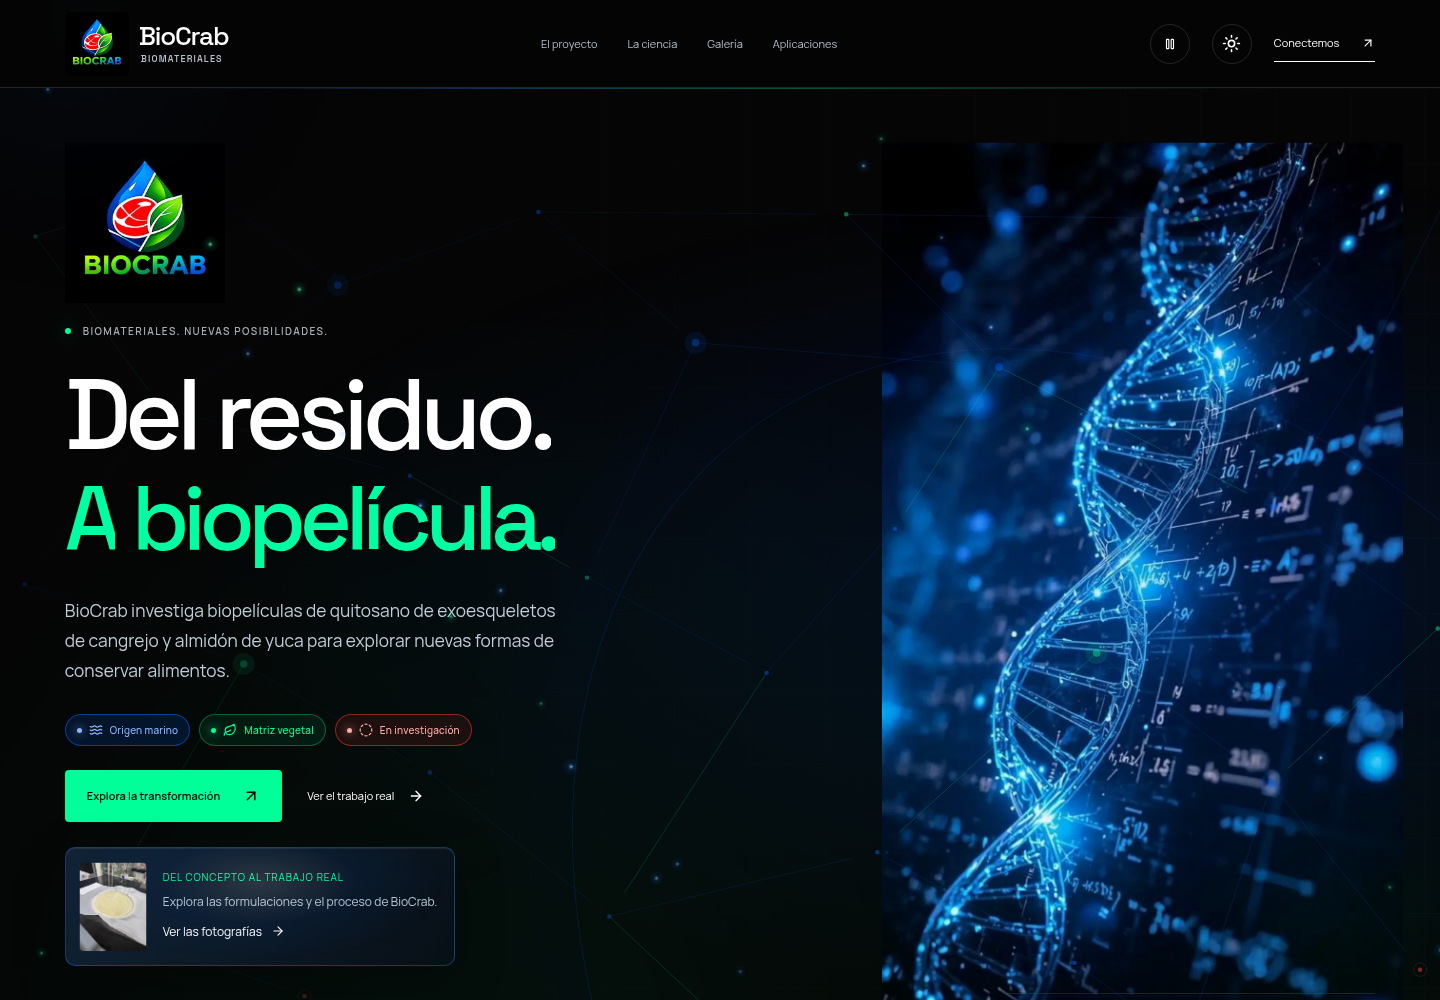
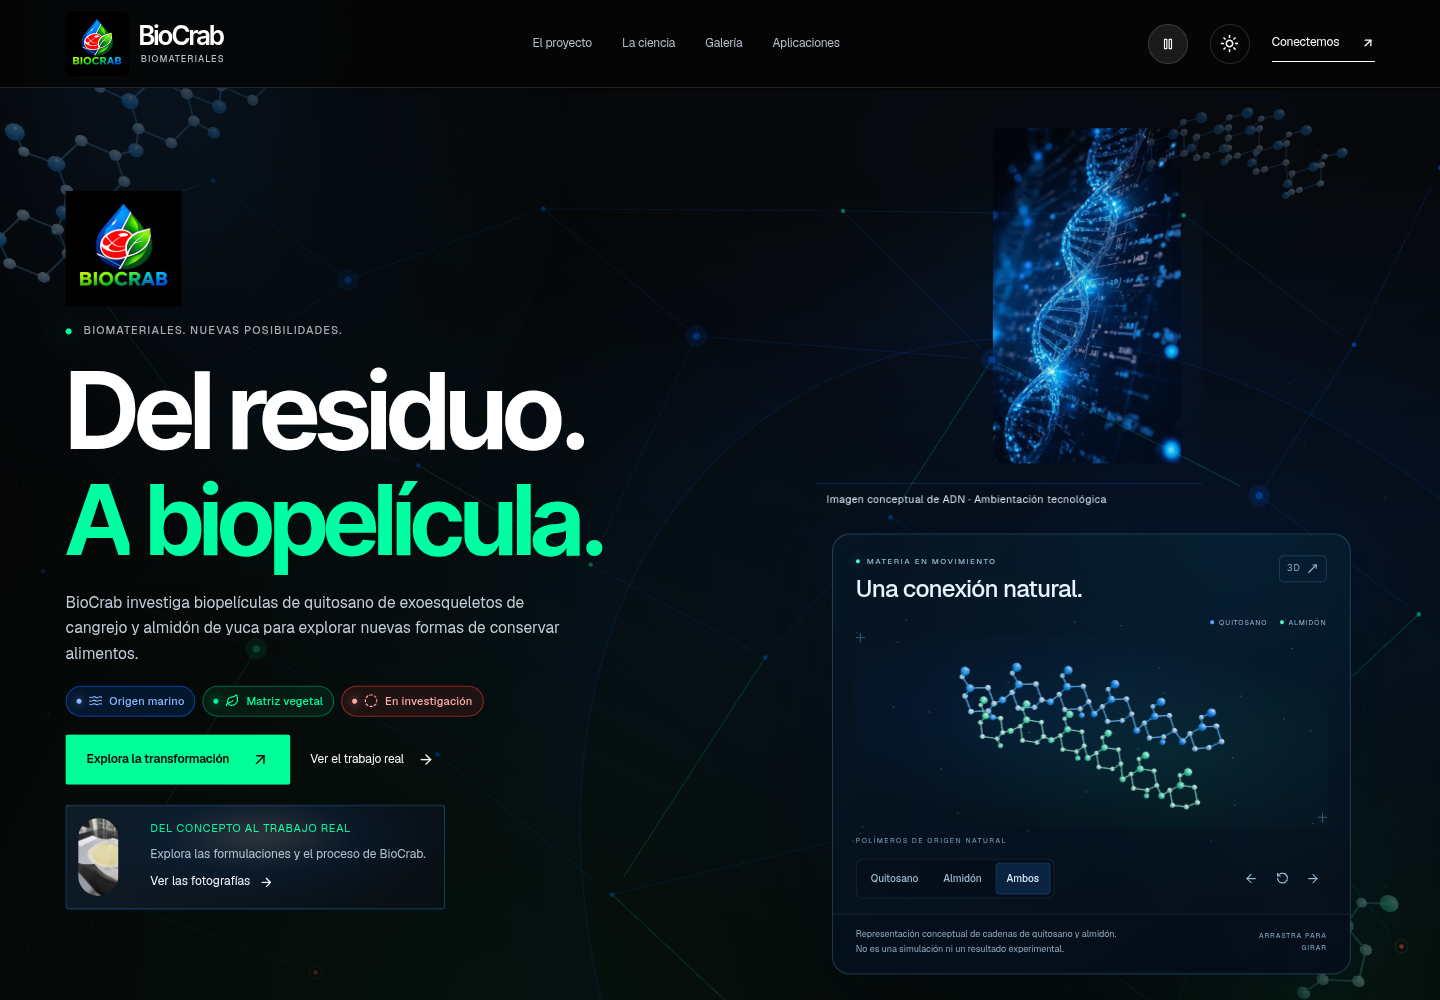
docs: verify molecular production release and preserve visual evidence

diff --git a/docs/visual-review.md b/docs/visual-review.md
@@ -1,70 +1,37 @@
 # Revisión visual de BioCrab
 
-## Alcance de la revisión actual
+La revisión molecular `molecular-research-v6` preserva las dieciséis secciones y su orden, el contenido científico y los archivos originales de fotografías y referencias. Solo se añadió una figura conceptual interactiva dentro del hero.
 
-La revisión identificada por `X-BioCrab-Design: cinematic-biotech-v5` incorpora las cinco imágenes exactas del nuevo ZIP y el logo adaptado con autorización del responsable. Las seis fotografías originales del proyecto permanecen en su colección independiente y no se sustituyen por referencias conceptuales.
+## Resultado visual
 
-## Elementos comprobados
+- Inter Tight y Geist locales, titulares grandes y espaciado más compacto.
+- Fondo molecular Three.js/React Three Fiber y explorador con modos, giro y teclado.
+- Dieciséis perfiles de animación, capas con profundidad, máscaras de fotografía y transiciones entre capítulos.
+- Fotografías completas, luz radial y marca BioCrab preservada. La etiqueta de ADN permanece asociada a su imagen y separada del esquema de polímeros.
+- Modelos explícitamente conceptuales: sin resultados ni datos experimentales inventados.
 
-- Logo PNG adaptado en navbar, hero, estado de carga y footer; favicon PNG generado desde el emblema.
-- Hero con el ADN azul conceptual, sus etiquetas de ambientación y el acceso a la fotografía real de la biopelícula.
-- Conexiones digitales en innovación; laboratorio conceptual en investigación/metodología; hoja y contacto digital en visión futura e impacto.
-- Imagen completa A-SPACE identificada como referencia de diseño. Sus cifras no son resultados de BioCrab ni implican afiliación.
-- Galería de seis fotografías originales y galería separada de cinco referencias, con imágenes completas, pies y ampliación opcional.
-- Hipótesis y validaciones pendientes sin porcentajes, ensayos completados, resultados ni afiliaciones inventadas.
-- Contadores de estructura (dos biopolímeros propuestos, cinco etapas y seis fotos), sin presentarlos como métricas de desempeño.
-- Movimiento, pausa persistente, cambios de preferencia de movimiento reducido y navegación por teclado.
+## Verificación
 
-## Validación local de esta revisión
+Compilación, TypeScript y diff-check completados. Chromium decodificó las treinta y siete apariciones de imágenes por vista. Anchos 320, 390, 768, 1024 y 1440 px sin desbordamiento.
 
-La compilación actual se comprobó localmente en Chromium contra los servidores de los puertos 3021, 3023 y 3024:
+Once ampliaciones de galería, cinco etapas metodológicas, cinco pasos del recorrido, timeline con teclado, ocho estados del comparador, menú móvil y copia del formulario comprobados. Se conservan pausa persistente, movimiento reducido y respaldo sin WebGL.
 
-- `npm run build` y `npm run typecheck`: completados correctamente.
-- Dieciséis secciones revisadas, con cinco referencias conceptuales en doce ubicaciones y las seis fotografías originales del proyecto.
-- Once ampliaciones interactivas verificadas: seis fotos del proyecto y cinco referencias.
-- Anchos 320, 390, 768, 1024 y 1440 px: sin desbordamiento horizontal.
-- Navegación, metodología, timeline, comparador y cambio de tema: comprobados.
-- Movimiento del hero, partículas, ambientación de ADN y profundidad de cursor: observado en el navegador, no solo por presencia de código.
-- Axe, reglas WCAG 2 A/AA y 2.1 AA: cero infracciones automáticas en temas oscuro y claro. Se utilizó movimiento reducido para evitar lecturas de contraste durante transiciones; quedaron dos reglas con comprobaciones incompletas. Esto no constituye una certificación integral de accesibilidad.
+El 3D se probó con WebGL real, WebGL deshabilitado y pérdida deliberada de contexto. El fallo del explorador queda aislado y no rompe la página. La carga del renderer es dinámica, con DPR limitado y bucles detenidos fuera de pantalla.
 
-El sistema cinematográfico incorpora GSAP/ScrollTrigger, Lenis, máscaras por palabras, zoom fotográfico sin recortes, partículas DOM y fuentes locales Manrope/Space Grotesk. Ver [movimiento y rendimiento](cinematic-experience.md).
+Axe WCAG A/AA y 2.1 AA en oscuro/claro y escritorio/móvil: cero infracciones automáticas con movimiento reducido. Dos comprobaciones incompletas por caso; esto no constituye certificación integral.
 
-La regresión del hero se verificó en dos corridas: pausa y movimiento reducido durante la entrada dejan ambas líneas visibles, sin desplazamiento ni desenfoque; reactivar el movimiento también termina correctamente, sin errores JavaScript.
+## Producción
 
-Estos resultados corresponden a la ejecución local de la revisión actual. No demuestran por sí solos que la misma compilación esté activa en Vercel. La integración de recursos se detalla en [integración de referencias](reference-integration.md).
-
-## Producción verificada
-
-URL: <https://biocrab-website.vercel.app/>. Enlace profundo: <https://biocrab-website.vercel.app/#hipotesis>.
-
-El 5 de noviembre de 2026, después del push del commit `f3ec62e94ee96091c927f860b70483a5f7cb085f`, Vercel confirmó el despliegue. Se verificó HTTP 200 y `X-BioCrab-Design: cinematic-biotech-v5` en el dominio público.
-
-Chromium comprobó 1440 × 1000 y 390 × 844 px:
-
-- Dieciséis escenas y treinta y seis títulos; doce estados distintos observados en partículas y zoom en cada vista. Lenis/GSAP en escritorio y scroll nativo/GSAP en móvil.
-- 37 imágenes decodificadas por vista, con cinco referencias únicas, seis fotos originales y tres apariciones del logo.
-- Imágenes completas mediante `object-fit: contain`; sin placeholders visibles ni desbordamiento horizontal.
-- Cero errores JavaScript o recursos HTTP fallidos durante el recorrido.
-- Favicon PNG válido, HTTP 200.
-- `#hipotesis` abre el contenido y lo deja visible, en ambas dimensiones.
-- Logo, título, CTA y ADN presentes desde la primera pantalla móvil.
-
-También se descargaron los cinco PNG y el logo desde sus rutas públicas: respuestas correctas y bytes idénticos al repositorio. Los cinco PNG originales coinciden con las fuentes del ZIP.
-
-El [informe de producción](production-verification.json) conserva fecha, URL, recursos únicos y resultados por viewport. La inspección visual revisó las capturas del hero, innovación, investigación, metodología, resultados, impacto y galería. Las referencias conceptuales aparecen con su contexto y no se presentan como evidencia experimental.
-
-## Capturas de producción
-
-Estas imágenes proceden del dominio público después del despliegue. Los heroes se capturaron con movimiento normal; las capturas largas de sección usan movimiento reducido para registrar un estado estable.
+<https://biocrab-website.vercel.app/> — revisión `5b39e42`, encabezado `molecular-research-v6`, verificada el 8 de noviembre de 2026. El dominio público renderizó ambos canvas WebGL y sus controles en escritorio y vista móvil, con 16 secciones, 37 imágenes y el enlace `#hipotesis` correcto. No hubo errores JavaScript, recursos fallidos ni desbordamiento.
 
 - [Escritorio](previews/desktop.png)
 - [Móvil](previews/mobile.png)
-- [Galería completa de escritorio](previews/galeria-desktop.jpg)
-- [Galería completa móvil](previews/galeria-mobile.jpg)
-- [Innovación](previews/innovacion-desktop.jpg)
-- [Investigación](previews/investigacion-desktop.jpg)
+- [Explorador de escritorio](previews/molecular-desktop.png)
+- [Explorador móvil](previews/molecular-mobile.png)
+- [Galería de escritorio](previews/galeria-desktop.jpg)
+- [Galería móvil](previews/galeria-mobile.jpg)
 - [Metodología móvil](previews/metodologia-mobile.jpg)
-- [Resultados pendientes](previews/resultados-desktop.jpg)
-- [Impacto potencial](previews/impacto-desktop.jpg)
+- [Investigación](previews/investigacion-desktop.jpg)
+- [Impacto](previews/impacto-desktop.jpg)
 
-No se inventaron porcentajes, resultados, reconocimientos ni afiliaciones. Las hipótesis y las aplicaciones propuestas siguen sujetas a validación experimental.
+Evidencia: [producción](production-verification.json), [controles](molecular-functional.json), [detalle técnico](molecular-experience.md). Las capturas restantes de la revisión anterior se conservan como historial y no acreditan esta entrega.

diff --git a/README.md b/README.md
@@ -66,10 +66,10 @@ El comparador utiliza una fotografía real de BioCrab y una ilustración concept
 
 El formulario valida y copia el mensaje en un contexto seguro; no envía ni almacena datos. El canal de contacto y los perfiles del equipo siguen pendientes de confirmación.
 
-URL de producción comunicada por el responsable: <https://biocrab-website.vercel.app/>. Enlace directo solicitado: <https://biocrab-website.vercel.app/#hipotesis>. La integración se publicó y verificó en esa URL el 5 de noviembre de 2026, en escritorio y móvil.
+URL de producción comunicada por el responsable: <https://biocrab-website.vercel.app/>. Enlace directo solicitado: <https://biocrab-website.vercel.app/#hipotesis>. La integración se publicó y verificó en esa URL el 8 de noviembre de 2026, en escritorio y móvil.
 
 El encabezado `X-BioCrab-Design: molecular-research-v6` identifica la nueva revisión molecular. Se comprobaron el despliegue de Vercel, el encabezado, las imágenes y el enlace profundo. Ver [integración de referencias](docs/reference-integration.md) y [estado de revisión visual](docs/visual-review.md).
 
-La ampliación molecular se identifica por `X-BioCrab-Design: molecular-research-v6`. Sus decisiones de rendimiento y comprobaciones se documentan en [experiencia cinematográfica](docs/cinematic-experience.md).
+Las mediciones de la revisión anterior se conservan como historial en [experiencia cinematográfica](docs/cinematic-experience.md).
 
-La integración molecular y la conservación de contenido se documentan en [experiencia molecular](docs/molecular-experience.md). La verificación pública se actualiza después del despliegue.
+La integración molecular y la conservación de contenido se documentan en [experiencia molecular](docs/molecular-experience.md). La verificación pública y las capturas están enlazadas en ese documento.

diff --git a/docs/molecular-experience.md b/docs/molecular-experience.md
@@ -29,4 +29,14 @@ Antes de crear WebGL se comprueba su disponibilidad. La pérdida de contexto usa
 - 11 ampliaciones, 5 etapas metodológicas, 5 pasos del recorrido, timeline con teclado, 8 estados del comparador, menú móvil y copia del formulario: verificados.
 - Axe WCAG A/AA y 2.1 AA: cero infracciones automáticas en oscuro/claro y escritorio/móvil con movimiento reducido. Dos comprobaciones incompletas por caso; no es certificación integral.
 
-El informe de controles está en [molecular-functional.json](molecular-functional.json). El despliegue y las capturas públicas de `molecular-research-v6` se registrarán después del push.
+El informe de controles está en [molecular-functional.json](molecular-functional.json).
+
+## Producción verificada
+
+La revisión `5b39e42` se publicó en <https://biocrab-website.vercel.app/> y responde con `X-BioCrab-Design: molecular-research-v6`.
+
+Chromium confirmó WebGL real para el fondo y el explorador, modos y giro, en 1440 y 390 px. Ambas vistas mantienen dieciséis secciones, treinta y siete imágenes, el enlace `#hipotesis` visible, cero desbordamiento horizontal y ningún error JavaScript o recurso HTTP fallido.
+
+Las capturas se tomaron directamente del dominio público: [escritorio](previews/desktop.png), [móvil](previews/mobile.png), [explorador 3D](previews/molecular-desktop.png) y [galería](previews/galeria-desktop.jpg). El [informe de producción](production-verification.json) registra fuente, recursos, modos y anclas.
+
+El servidor de pruebas utiliza ANGLE/SwiftShader por software. Las pruebas confirman renderizado y controles; no certifican el rendimiento de todos los teléfonos físicos.

diff --git a/docs/reference-integration.md b/docs/reference-integration.md
@@ -22,16 +22,16 @@ El responsable autorizó preservar el emblema del archivo de logo aportado y cam
 
 - Producción comunicada: <https://biocrab-website.vercel.app/>.
 - Enlace profundo: <https://biocrab-website.vercel.app/#hipotesis>.
-- Encabezado de esta revisión: `X-BioCrab-Design: cinematic-biotech-v5`.
+- Encabezado de esta revisión: `X-BioCrab-Design: molecular-research-v6`.
 
 El destino `#hipotesis` se comprobó abriendo la URL pública en escritorio y móvil. La alineación inicial contempla el contenido servido en streaming, y la hipótesis queda abierta y visible.
 
 ## Verificación de producción completada
 
-El 5 de noviembre de 2026 se comprobó la publicación del commit `f3ec62e94ee96091c927f860b70483a5f7cb085f`:
+El 8 de noviembre de 2026 se comprobó la publicación del commit `5b39e423d162b36b7db225c4b955f76a9d731dbd`:
 
 - Vercel confirmó el despliegue de `biocrab-website`.
-- La URL pública respondió HTTP 200 con `cinematic-biotech-v5`.
+- La URL pública respondió HTTP 200 con `molecular-research-v6`.
 - Las cinco referencias y el logo respondieron HTTP 200; sus bytes coinciden con los del repositorio. Los cinco PNG de referencia también coinciden con las fuentes del ZIP.
 - Chromium decodificó 37 imágenes por vista en 1440 y 390 px: cinco referencias únicas, seis fotografías originales y el logo en navbar, hero y footer.
 - El favicon PNG respondió HTTP 200. Las fotografías usan `object-fit: contain`; no se encontraron placeholders visibles, errores JavaScript, recursos fallidos ni desbordamiento horizontal.

diff --git a/public/images/README.md b/public/images/README.md
@@ -39,4 +39,4 @@ La adaptación del nombre no supone modificar las fotografías experimentales. L
 
 ## Publicación y comprobaciones
 
-La publicación se verificó el 5 de noviembre de 2026 en <https://biocrab-website.vercel.app/> y utiliza `X-BioCrab-Design: cinematic-biotech-v5`. Las cinco referencias y el logo responden HTTP 200 y conservan los mismos bytes publicados en el repositorio. Las seis fotografías originales también se decodificaron correctamente en escritorio y móvil. Ver `docs/visual-review.md`.
+La publicación se verificó el 8 de noviembre de 2026 en <https://biocrab-website.vercel.app/> y utiliza `X-BioCrab-Design: molecular-research-v6`. Las cinco referencias y el logo responden HTTP 200 y conservan los mismos bytes publicados en el repositorio. Las seis fotografías originales también se decodificaron correctamente en escritorio y móvil. Ver `docs/visual-review.md`.

diff --git a/docs/cinematic-experience.md b/docs/cinematic-experience.md
@@ -1,5 +1,7 @@
 # Experiencia cinematográfica BioCrab
 
+Este documento conserva las mediciones de la revisión `cinematic-biotech-v5`. No describe el rendimiento de la nueva escena WebGL. La implementación actual se documenta en [experiencia molecular](molecular-experience.md); las capturas de `previews/` se actualizan a la revisión publicada más reciente.
+
 ## Sistema de movimiento
 
 - GSAP y ScrollTrigger: títulos por palabras con máscaras, giro y escala; parallax independiente de la entrada de Framer Motion; transiciones luminosas de cada sección.
